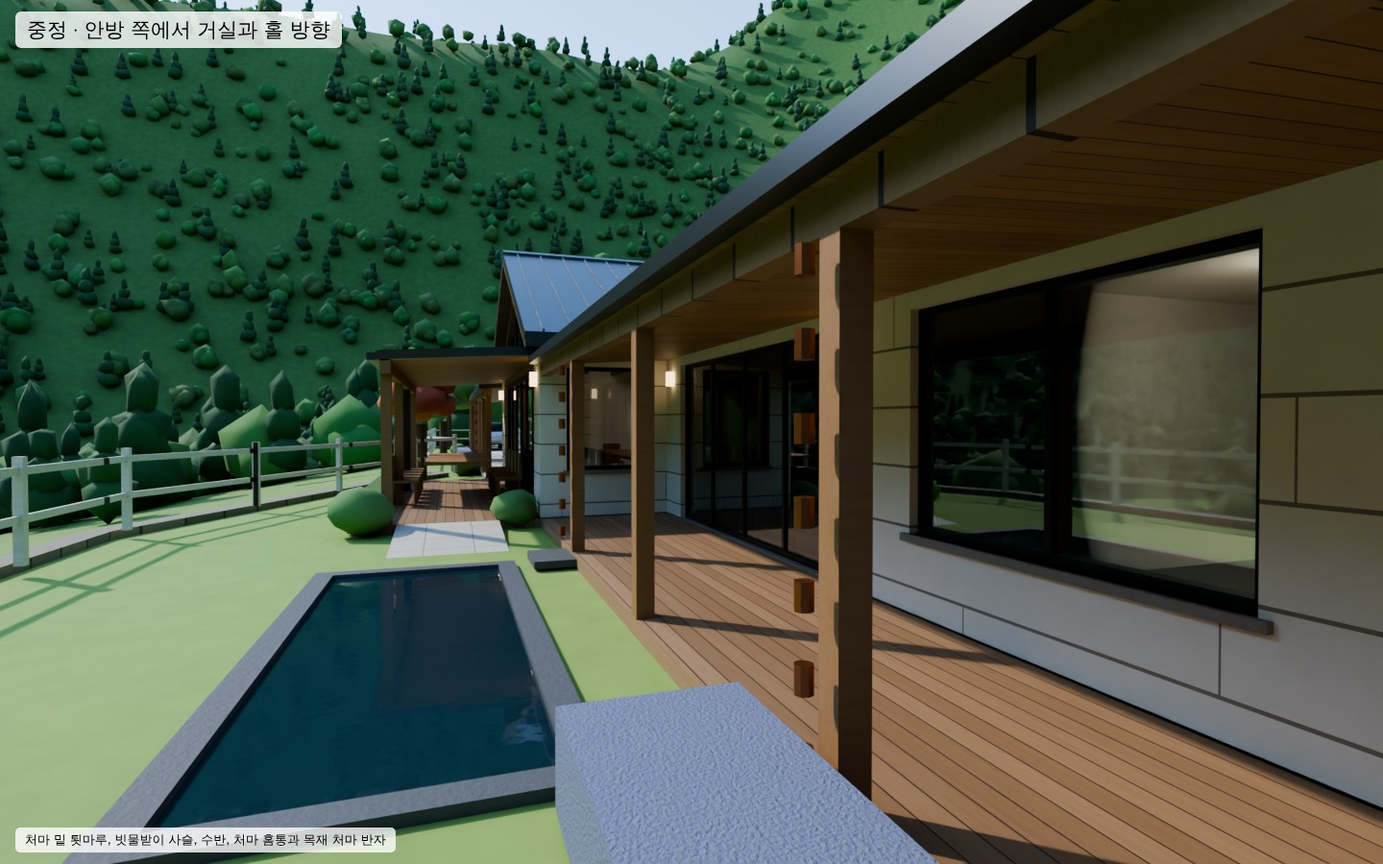
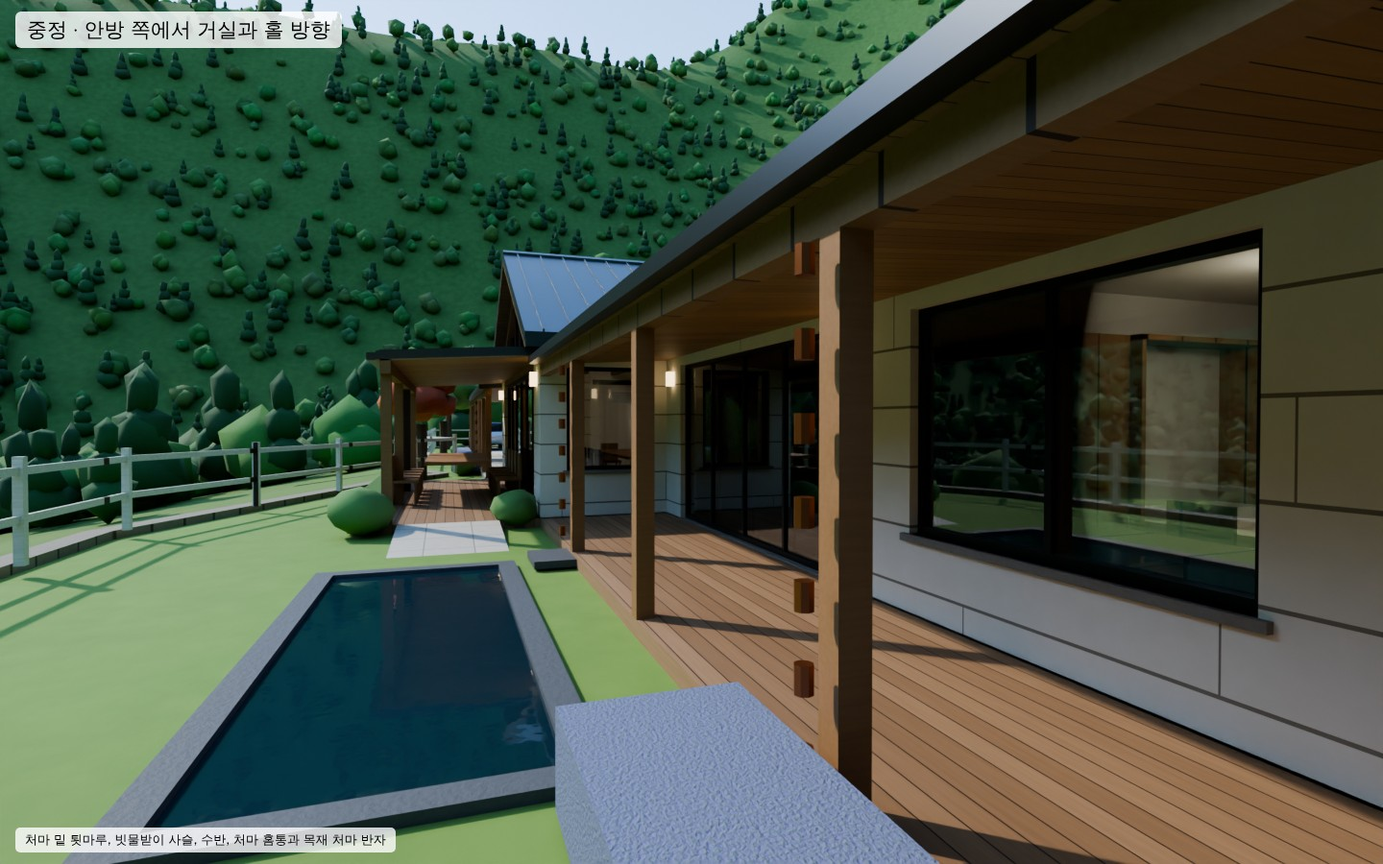
Plan C: open dining-living, attic study with big window, ducted AC, interior views
- Remove the wall between dining and living; dining table for 12, larger living room
- Attic over the garage: large gable window, desk facing the window, audio corner, stair views
- Scullery and utility room interiors (washer/dryer tower)
- Master bedroom: two motion beds, recliners and tea table by the window
- Bedroom 2: built-in desk facing the window and a wall bed
- Ducted air conditioning slots, return grilles and ERV diffusers on ceilings
- Re-render all 21 views and update the floor plan

Claude-Session: https://claude.ai/code/session_01V2KT19EFwobJ5RF8mtFq11

Changed region(s): [[0.7812, 0.3733, 0.9062, 0.6844]]

diff --git a/house-redesign/C안/src/geom2.py b/house-redesign/C안/src/geom2.py
@@ -275,6 +275,7 @@ for d in (7300, 9500, 11700, 13700):
     add('Truss_Tie', 'Roof', 'timber', B(7560, d - 70, 15240, d + 70), EAVE, EAVE + 200)
     for sub, top in tops(B(11330, d - 70, 11470, d + 70)):
         add('Truss_Post', 'Roof', 'timber', sub, EAVE + 200, top)
+add('Open_Beam_HallLiving', 'Roof', 'timber', B(15220, 5850, 15380, 12350), EAVE - 80, EAVE + 220)
 # 굴뚝 (거실 벽난로)
 add('Chimney', '1F', 'stone_wall', B(17650, 5100, 18550, 5600), PAD, 7780)
 add('Chimney_Cap', '1F', 'frame', B(17580, 5030, 18620, 5670), 7780, 7850)
@@ -289,40 +290,69 @@ add('Attic_Floor', '1F', 'fl_private', B(-6750, 5850, -125, 12950).difference(WE
 for k in range(16):
     d1 = 12700 - 250 * k
     add(f'Attic_Stair_{k + 1}', '1F', 'timber', B(-1125, d1 - 250, -175, d1), FL - 20, FL - 20 + (AT_FL - FL + 20) / 17 * (k + 1))
-add('Attic_Rail_W', '1F', 'frame', B(-1165, 8700, -1125, 12700), AT_FL, AT_FL + 1000)
-add('Attic_Rail_S', '1F', 'frame', B(-1165, 12700, -125, 12740), AT_FL, AT_FL + 1000)
+for d_ in range(8700, 12701, 800):                                    # 계단 난간: 기둥 + 손잡이 + 중간대
+    add('Attic_Rail_Post', '1F', 'frame', B(-1165, d_ - 20, -1125, d_ + 20), AT_FL, AT_FL + 1000, minarea=100)
+for u_ in (-765, -365):
+    add('Attic_Rail_Post', '1F', 'frame', B(u_ - 20, 12700, u_ + 20, 12740), AT_FL, AT_FL + 1000, minarea=100)
+for (z0_, z1_) in [(960, 1010), (480, 510)]:
+    add('Attic_Rail_Bar', '1F', 'frame' if z0_ < 900 else 'timber', B(-1170, 8680, -1120, 12740), AT_FL + z0_, AT_FL + z1_, minarea=100)
+    add('Attic_Rail_Bar', '1F', 'frame' if z0_ < 900 else 'timber', B(-1170, 12695, -125, 12745), AT_FL + z0_, AT_FL + z1_, minarea=100)
 GPN = [0.0, -TAN_G, EAVE_G + TAN_G * (-5600)]; GPS = [0.0, TAN_G, EAVE_G + TAN_G * 13200]
 for k, u0 in enumerate((-5600, -3200)):                                # 남측 지붕 천창 2개
     add(f'Skylight_{k + 1}_Frame', 'Roof', 'frame', B(u0, 10700, u0 + 900, 12100), sh(GPS, RT), sh(GPS, RT + 70))
     add(f'Skylight_{k + 1}_Glass', 'Roof', 'glass', B(u0 + 70, 10770, u0 + 830, 12030), sh(GPS, RT + 70), sh(GPS, RT + 90))
 AF = AT_FL + 15
-add('Attic_Desk', 'Furniture', 'timber', B(-6700, 8600, -6000, 10200), AF + 700, AF + 740)
-add('Attic_Sofa', 'Furniture', 'sofa', B(-4600, 8000, -2400, 8900), AF, AF + 420)
-add('Attic_Sofa_Back', 'Furniture', 'sofa', B(-4600, 8000, -2400, 8200), AF + 420, AF + 800)
-add('Attic_Shelf_N', 'Furniture', 'cabinet_wood', B(-6600, 6300, -1500, 6700), AF, AF + 700)
-add('Attic_Shelf_S', 'Furniture', 'cabinet_wood', B(-6600, 12300, -1500, 12700), AF, AF + 700)
-add('Attic_Rug', 'Furniture', 'bed', B(-5200, 9100, -2200, 10900), AF, AF + 12)
+add('Attic_Desk_Top', 'Furniture', 'timber', B(-6450, 8250, -5700, 10550), AF + 720, AF + 760)
+for (u_, d_) in [(-6400, 8300), (-5800, 8300), (-6400, 10450), (-5800, 10450)]:
+    add('Attic_Desk_Leg', 'Furniture', 'frame', B(u_, d_, u_ + 50, d_ + 50), AF, AF + 720, minarea=100)
+add('Attic_Desk_Lamp', 'Furniture', 'lamp', B(-6350, 8400, -6230, 8520), AF + 760, AF + 1100, minarea=100)
+add('Attic_Desk_Books', 'Furniture', 'cabinet_wood', B(-6400, 10000, -6150, 10450), AF + 760, AF + 960, minarea=100)
+add('Attic_Shelf_N', 'Furniture', 'cabinet_wood', B(-5400, 6250, -1500, 6650), AF, AF + 620)
+add('Attic_Shelf_S', 'Furniture', 'cabinet_wood', B(-5400, 12150, -1500, 12550), AF, AF + 620)
+for k_, d_ in enumerate((7150, 11330)):
+    add(f'Attic_Speaker_{k_}', 'Furniture', 'frame', B(-6500, d_, -6150, d_ + 320), AF, AF + 1000)
+add('Attic_AudioRack', 'Furniture', 'cabinet_wood', B(-3300, 6750, -1900, 7250), AF, AF + 560)
+add('Attic_Turntable', 'Furniture', 'frame', B(-2900, 6820, -2400, 7180), AF + 560, AF + 650)
+add('Attic_Amp', 'Furniture', 'metal', B(-3250, 6830, -2950, 7170), AF + 560, AF + 700)
+add('Attic_Lounge_Seat', 'Furniture', 'sofa', B(-3300, 8950, -2500, 9850), AF, AF + 400)
+add('Attic_Lounge_Back', 'Furniture', 'sofa', B(-2650, 8950, -2500, 9850), AF + 400, AF + 900)
+add('Attic_Ottoman', 'Furniture', 'sofa', B(-4250, 9150, -3750, 9650), AF, AF + 360)
+add('Attic_Rug', 'Furniture', 'bed', B(-5300, 8300, -2000, 10500), AF, AF + 12)
 # 외부 벽등
 for (u, d, ox, oy) in [(-7000, 9400, -1, 0), (-7000, 5900, -1, 0), (-7000, 12900, -1, 0), (1150, 12600, 0, -1), (3450, 12600, 0, -1), (-1000 + 700, 13200, 0, -1),
                        (7900, 14600, 0, -1), (14900, 14600, 0, -1), (15650, 12600, 0, -1), (20650, 12600, 0, -1), (3850, 5600, 0, 1)]:
     x, y = u + ox * 45, -d + oy * 45
     add('WallLamp', '1F', 'lamp', box(x - 60, y - 60, x + 60, y + 60) if True else None, FL + 2000, FL + 2220, minarea=300)
 
-# 다락 서측 박공벽에 지름 500mm 원형 창 개구부 (세로 띠로 근사, 유리와 창틀은 렌더러에서 추가)
-RW_C, RW_Z, RW_R = 9400, AT_FL + 1500, 250
+# 다락 서측 박공벽: 지붕선을 따르는 큰 창(창대 450, 가운데 높이 2000) + 꼭대기 원형 스테인드글라스(지름 500)
+RW_C, RW_Z, RW_R = 9400, AT_FL + 2500, 250
+GW0, GW1, GW_S, GW_H, GW_RK = 6600, 12200, AT_FL + 450, AT_FL + 2000, 300
+GA, GB = 5600 + (GW_H - AT_FL + GW_RK) / TAN_G, 13200 - (GW_H - AT_FL + GW_RK) / TAN_G
 _old = list(P); P[:] = []
 for p in _old:
     xs_ = [q[0] for q in p['p']]
     if not (p['g'] == 'Roof' and p['m'] == 'siding_wood' and min(xs_) >= -7001 and max(xs_) <= -6749):
         P.append(p); continue
-    poly = Polygon(p['p'])
-    add(p['n'], p['g'], p['m'], poly.difference(B(-7100, RW_C - RW_R, -6700, RW_C + RW_R)), p['zb'], p['zt'])
+    poly = Polygon(p['p']); pl = p['zt']
+    add(p['n'], p['g'], p['m'], poly.difference(B(-7100, GW0, -6700, GW1)), p['zb'], pl)
+    win = poly.intersection(B(-7100, GW0, -6700, GW1))
+    add(p['n'] + '_Sill', p['g'], p['m'], win, p['zb'], GW_S)
+    for (d0, d1) in ((GW0, GA), (GB, GW1)):
+        add(p['n'] + '_Rake', p['g'], p['m'], win.intersection(B(-7100, d0, -6700, d1)), sh(pl, -GW_RK), pl)
+    mid = win.intersection(B(-7100, GA, -6700, GB))
+    add(p['n'] + '_Transom', p['g'], p['m'], mid.difference(B(-7100, RW_C - RW_R, -6700, RW_C + RW_R)), GW_H, pl)
     for k in range(10):
-        d0 = RW_C - RW_R + 50 * k
-        half = math.sqrt(max(RW_R ** 2 - (d0 + 25 - RW_C) ** 2, 0))
-        cut = poly.intersection(B(-7100, d0, -6700, d0 + 50))
-        add(p['n'] + f'_Under{k}', p['g'], p['m'], cut, p['zb'], RW_Z - half, minarea=300)
-        add(p['n'] + f'_Over{k}', p['g'], p['m'], cut, RW_Z + half, p['zt'], minarea=300)
+        d0 = RW_C - RW_R + 50 * k; half = math.sqrt(max(RW_R ** 2 - (d0 + 25 - RW_C) ** 2, 0)); cut = mid.intersection(B(-7100, d0, -6700, d0 + 50))
+        add(p['n'] + f'_Under{k}', p['g'], p['m'], cut, GW_H, RW_Z - half, minarea=300)
+        add(p['n'] + f'_Over{k}', p['g'], p['m'], cut, RW_Z + half, pl, minarea=300)
+for (d0, d1, zt_) in ((GW0, GA, sh(GPN, -GW_RK)), (GA, 9400, GW_H), (9400, GB, GW_H), (GB, GW1, sh(GPS, -GW_RK))):
+    add('Attic_BigWindow_Glass', 'Roof', 'glass', B(-6900, d0, -6860, d1), GW_S, zt_)
+add('Attic_BigWindow_SillBar', 'Roof', 'frame', B(-6960, GW0, -6800, GW1), GW_S - 50, GW_S + 20, minarea=300)
+add('Attic_BigWindow_HeadBar', 'Roof', 'frame', B(-6960, GA, -6800, GB), GW_H - 20, GW_H + 50, minarea=300)
+for k in range(7):
+    dm = GW0 + (GW1 - GW0) * k / 6
+    ztm = GW_H if GA <= dm <= GB else sh(GPN if dm < 9400 else GPS, -GW_RK)
+    add(f'Attic_BigWindow_Mullion{k}', 'Roof', 'frame', B(-6950, max(dm - 30, GW0), -6810, min(dm + 30, GW1)), GW_S, ztm, minarea=300)
 
 # ================================================================= 대지
 add('Hillside', 'Site', 'hill', HILL, -14000, NAT)
@@ -402,33 +432,118 @@ fur('Kitchen_Island', B(9200, 7600, 12600, 8750), F, FL + 900, 'cabinet_wood'); 
 fur('Scullery_Counter_N', B(4600, 5850, 7380, 6450), F, FL + 900, 'cabinet'); fur('Scullery_Counter_N_Top', B(4600, 5850, 7380, 6470), FL + 900, FL + 940, 'counter')
 fur('Scullery_Counter_S', B(4300, 8360, 7380, 8960), F, FL + 900, 'cabinet'); fur('Scullery_Counter_S_Top', B(4300, 8340, 7380, 8960), FL + 900, FL + 940, 'counter')
 fur('Scullery_Fridges', B(3060, 8300, 4300, 8960), F, FL + 2000, 'metal')
-fur('Laundry', B(300, 5850, 1750, 6450), F, FL + 900, 'porcelain')
+# 다용도실: 타워형 세탁기·건조기, 개수대, 키 큰 수납장, 벤치
+fur('Util_Tower_Washer', B(200, 5870, 820, 6520), F, FL + 870, 'porcelain'); fur('Util_Tower_Band', B(200, 5870, 820, 6525), FL + 870, FL + 1010, 'metal')
+fur('Util_Tower_Dryer', B(200, 5870, 820, 6520), FL + 1010, FL + 1890, 'porcelain')
+fur('Util_Sink_Cabinet', B(900, 5850, 2250, 6450), F, FL + 860, 'cabinet'); fur('Util_Sink_Top', B(900, 5850, 2250, 6470), FL + 860, FL + 900, 'counter')
+fur('Util_Sink_Basin', B(1150, 5950, 1750, 6350), FL + 900, FL + 915, 'metal')
+fur('Util_Tall_Storage', B(2330, 5850, 2900, 6420), F, FL + 2150, 'cabinet_wood')
+fur('Util_Bench', B(200, 8450, 1150, 8900), F, FL + 450, 'timber'); fur('Util_Hooks_Rail', B(200, 8880, 1150, 8950), FL + 1600, FL + 1680, 'timber')
+# 보조주방: 개수대, 쿡탑, 상부장, 선반
+fur('Scullery_Sink_Basin', B(5100, 5950, 5900, 6350), FL + 940, FL + 955, 'metal'); fur('Scullery_Cooktop', B(6300, 5950, 7000, 6380), FL + 940, FL + 955, 'frame')
+fur('Scullery_Upper_S', B(4300, 8610, 7380, 8960), FL + 1500, FL + 2250, 'cabinet'); fur('Scullery_Hood', B(6250, 5850, 7050, 6250), FL + 1650, FL + 1800, 'metal')
+fur('Scullery_Shelf_W', B(3060, 5900, 3300, 6700), FL + 1300, FL + 1340, 'timber'); fur('Scullery_Shelf_W2', B(3060, 5900, 3300, 6700), FL + 1650, FL + 1690, 'timber')
 fur('Shoe_Cabinet', B(125, 9080, 560, 12350), F, FL + 2250, 'cabinet_wood')
 fur('Foyer_Bench', B(3350, 11850, 4290, 12350), F, FL + 450, 'timber')
 fur('Powder_WC', B(6850, 10900, 7440, 11350), F, FL + 430, 'porcelain'); fur('Powder_Sink', B(4500, 11800, 5400, 12350), FL + 700, FL + 850, 'porcelain')
-fur('Dining_Table', B(9200, 11425, 13600, 12575), FL + 700, FL + 760, 'timber')
-for (u, d) in [(9500, 11600), (13300, 11600), (9500, 12400), (13300, 12400)]:
+fur('Dining_Table', B(8950, 11425, 12650, 12575), FL + 700, FL + 760, 'timber')          # 12인: 긴 변 5석씩 + 양 끝
+for (u, d) in [(9250, 11600), (12350, 11600), (9250, 12400), (12350, 12400)]:
     fur('Dining_Table_Leg', B(u - 50, d - 50, u + 50, d + 50), F, FL + 700, 'timber')
 fur('Sofa', B(16300, 9300, 19300, 10250), F, FL + 430, 'sofa'); fur('Sofa_Back', B(16300, 10050, 19300, 10250), FL + 430, FL + 850, 'sofa')
 fur('Sofa_Side', B(19300, 7500, 20200, 10250), F, FL + 430, 'sofa'); fur('Sofa_Side_Back', B(20000, 7500, 20200, 10250), FL + 430, FL + 850, 'sofa')
 fur('Coffee_Table', B(17000, 7800, 18400, 8600), FL + 300, FL + 380, 'timber')
+fur('Living_Rug', B(14900, 7100, 20300, 10400), F, F + 12, 'bed')
+for k_, d_ in enumerate((7350, 8950)):                                     # 넓어진 서쪽에 안락의자 한 쌍
+    fur(f'Living_Armchair_{k_}_Seat', B(14950, d_, 15800, d_ + 850), F, FL + 420, 'sofa'); fur(f'Living_Armchair_{k_}_Back', B(14950, d_, 15130, d_ + 850), FL + 420, FL + 860, 'sofa')
+fur('Living_SideTable', B(15150, 8320, 15550, 8830), FL + 480, FL + 520, 'timber')
 fur('Fireplace', B(17500, 5850, 18700, 6300), F, FL + 2700, 'stone_wall'); fur('Fireplace_Glass', B(17750, 6290, 18450, 6320), FL + 350, FL + 1050, 'frame')
-fur('Bed2', B(21100, 9700, 22700, 11800), F, FL + 500, 'bed'); fur('Desk2', B(23400, 7400, 24300, 8900), FL + 700, FL + 740, 'timber')
+# 침실2: 창밖을 향한 붙박이 책상 + 서쪽 벽의 벽장침대(펼친 모습)
+fur('Bed2_Desk_Top', B(21250, 11780, 24050, 12350), FL + 720, FL + 760, 'timber')
+for u_ in (21250, 22630, 24010):
+    fur('Bed2_Desk_Panel', B(u_, 11800, u_ + 40, 12350), F, FL + 720, 'cabinet_wood')
+fur('Bed2_Desk_Drawers', B(23400, 11820, 24010, 12350), FL + 250, FL + 720, 'cabinet_wood')
+fur('Bed2_Desk_Lamp', B(21400, 12150, 21500, 12250), FL + 760, FL + 1100, 'lamp')
+fur('Bed2_Wallbed_Cabinet_Side1', B(20860, 8250, 21320, 8300), F, FL + 2250, 'cabinet_wood'); fur('Bed2_Wallbed_Cabinet_Side2', B(20860, 9900, 21320, 9950), F, FL + 2250, 'cabinet_wood')
+fur('Bed2_Wallbed_Cabinet_Top', B(20860, 8250, 21320, 9950), FL + 2200, FL + 2250, 'cabinet_wood'); fur('Bed2_Wallbed_Cabinet_Back', B(20860, 8300, 20900, 9900), F, FL + 2200, 'cabinet')
+fur('Bed2_Wallbed_Platform', B(20950, 8320, 23050, 9880), FL + 280, FL + 330, 'cabinet_wood'); fur('Bed2_Wallbed_Mattress', B(21000, 8350, 23000, 9850), FL + 330, FL + 530, 'bed')
+fur('Bed2_Wallbed_Pillow', B(21050, 8500, 21450, 9700), FL + 530, FL + 640, 'porcelain'); fur('Bed2_Wallbed_Throw', B(22300, 8340, 22800, 9860), FL + 530, FL + 545, 'furniture')
+for d_ in (8340, 9810):
+    fur('Bed2_Wallbed_Leg', B(22980, d_, 23040, d_ + 50), F, FL + 280, 'frame')
+fur('Bed2_Shelf_N', B(20860, 7330, 21200, 8250), F, FL + 2250, 'cabinet_wood'); fur('Bed2_Shelf_S', B(20860, 9950, 21200, 11200), F, FL + 2250, 'cabinet_wood')
 fur('Vanity2', B(24520, 7270, 25300, 7830), F, FL + 850, 'cabinet'); fur('WC2', B(25850, 9250, 26440, 9700), F, FL + 430, 'porcelain')
 fur('Closet_Dress', B(28400, 7400, 31750, 7940), F, FL + 2250, 'cabinet_wood'); fur('Closet_Pass', B(26560, 8060, 27160, 11540), F, FL + 2250, 'cabinet_wood')
 fur('MBath_Vanity', B(28900, 8060, 30700, 8620), F, FL + 850, 'cabinet'); fur('MBath_Tub', B(30950, 8300, 31750, 10000), F, FL + 560, 'porcelain')
 fur('MBath_WC', B(31150, 10850, 31750, 11400), F, FL + 430, 'porcelain'); fur('MBath_ShowerGlass', B(28800, 10200, 30300, 10240), F, FL + 2100, 'glass')
-fur('Bed_Master', B(28150, 11700, 30250, 13900), F, FL + 520, 'bed'); fur('Bed_Master_Head', B(28150, 11660, 30250, 11760), FL + 520, FL + 1150, 'timber')
+fur('Master_Headwall', B(27950, 11660, 30950, 11720), F, FL + 1150, 'cabinet')
+for k_, (u0_, rise_) in enumerate(((28300, 380), (29420, 140))):            # 모션베드 2개를 붙여서 (머리판 각도는 따로)
+    u1_ = u0_ + 1100
+    fur(f'MotionBed_{k_}_Base', B(u0_, 11760, u1_, 13810), F, FL + 300, 'cabinet')
+    fur(f'MotionBed_{k_}_MattFoot', B(u0_ + 30, 12650, u1_ - 30, 13790), FL + 300, FL + 550, 'bed')
+    sl_ = rise_ / 870.0                                                      # 머리 쪽(북)으로 갈수록 올라감: z = sl*(d0 - d) = sl*y + sl*d0
+    pb_ = [0.0, sl_, FL + 300 + sl_ * 12650]; pt_ = [0.0, sl_, FL + 550 + sl_ * 12650]
+    add(f'MotionBed_{k_}_MattHead', 'Furniture', 'bed', B(u0_ + 30, 11780, u1_ - 30, 12650), pb_, pt_)
+    add(f'MotionBed_{k_}_Wedge', 'Furniture', 'cabinet', B(u0_ + 60, 11780, u1_ - 60, 12650), FL + 300, pb_)
+    add(f'MotionBed_{k_}_Pillow', 'Furniture', 'porcelain', B(u0_ + 220, 11850, u1_ - 220, 12250), pt_, [0.0, sl_, pt_[2] + 120])
+    add(f'MotionBed_{k_}_Cushion', 'Furniture', 'fern', B(u0_ + 300, 12280, u1_ - 300, 12560), pt_, [0.0, sl_, pt_[2] + 110])
+    fur(f'MotionBed_{k_}_Throw', B(u0_ + 20, 13150, u1_ - 20, 13600), FL + 550, FL + 565, 'furniture')
+    add(f'Master_Sconce_{k_}', 'Furniture', 'lamp', B(u0_ + 500, 11720, u0_ + 600, 11790), FL + 1250, FL + 1450, minarea=100)
+fur('Master_Nightstand_W', B(27950, 11720, 28280, 12200), F, FL + 480, 'cabinet'); fur('Master_Nightstand_E', B(30540, 11720, 30990, 12200), F, FL + 480, 'cabinet')
+for k_, u0_ in enumerate((27750, 30000)):                                  # 남쪽 창가 리클라이너 2개 (창을 향함)
+    fur(f'Recliner_{k_}_Seat', B(u0_, 15250, u0_ + 800, 16050), F, FL + 430, 'sofa')
+    add(f'Recliner_{k_}_Back', 'Furniture', 'sofa', B(u0_ + 60, 14850, u0_ + 740, 15300), FL + 250, [0.0, 1.45, FL + 430 + 1.45 * 15300])
+    fur(f'Recliner_{k_}_ArmL', B(u0_, 15150, u0_ + 110, 16050), FL + 430, FL + 600, 'sofa'); fur(f'Recliner_{k_}_ArmR', B(u0_ + 690, 15150, u0_ + 800, 16050), FL + 430, FL + 600, 'sofa')
+    fur(f'Recliner_{k_}_Foot', B(u0_ + 80, 16080, u0_ + 720, 16520), FL + 240, FL + 400, 'sofa')
+fur('TeaTable_Top', Point(29275, -15700).buffer(300, resolution=4), FL + 500, FL + 530, 'timber'); fur('TeaTable_Leg', Point(29275, -15700).buffer(45, resolution=3), F, FL + 500, 'frame')
+fur('Master_Rug', B(27600, 14700, 31000, 16600), F, F + 12, 'bed')
 for k, d0 in enumerate((6350, 10500)):
     fur(f'Car_{k + 1}_Body', B(-6300, d0, -1500, d0 + 1900), FL + 250, FL + 950, 'car', '1F'); fur(f'Car_{k + 1}_Cabin', B(-5300, d0 + 90, -2500, d0 + 1810), FL + 950, FL + 1600, 'car_glass', '1F')
 for k, d0 in enumerate((10400, 12900)):
     fur(f'GuestCar_{k + 1}_Body', B(-17200, d0, -12400, d0 + 1900), PAD + 280, PAD + 980, 'car2' if k else 'car', 'Site'); fur(f'GuestCar_{k + 1}_Cabin', B(-16200, d0 + 90, -13400, d0 + 1810), PAD + 980, PAD + 1630, 'car_glass', 'Site')
 fur('Outdoor_Table', B(9600, 15200, 13200, 16300), FL + 690, FL + 750, 'timber', 'Site')
+# ------------------------------------------------------------------ 천장 설비 (시스템 에어컨 · 전열교환기)
+def cassette(nm, u, d):                                                     # 평천장: 4방향 카세트 840각
+    fur(nm + '_Panel', B(u - 420, d - 420, u + 420, d + 420), EAVE - 32, EAVE, 'porcelain')
+    fur(nm + '_Grille', B(u - 250, d - 250, u + 250, d + 250), EAVE - 37, EAVE - 32, 'metal')
+    for (a0, b0, a1, b1) in [(-330, -390, 330, -330), (-330, 330, 330, 390), (-390, -330, -330, 330), (330, -330, 390, 330)]:
+        fur(nm + '_Slot', B(u + a0, d + b0, u + a1, d + b1), EAVE - 37, EAVE - 32, 'frame')
+def erv_flat(nm, u, d):                                                     # 평천장: 전열교환기 급·배기구 (지름 220)
+    fur(nm + '_Ring', Point(u, -d).buffer(110, resolution=4), EAVE - 22, EAVE, 'porcelain'); fur(nm + '_Core', Point(u, -d).buffer(60, resolution=4), EAVE - 30, EAVE - 22, 'metal')
+def erv_slope(nm, u, d):                                                    # 박공 천장: 경사면을 따라 붙는 급·배기구
+    for sub, top in tops(Point(u, -d).buffer(115, resolution=4)):
+        add(nm + '_Ring', 'Roof', 'porcelain', sub, sh(top, -45), sh(top, -20), minarea=100)
+def slot(nm, geom, z0, z1, grp='Furniture'):                                # 벽 상부 선형 디퓨저 (덕트형 에어컨 토출구)
+    add(nm + '_Frame', grp, 'porcelain', geom, z0 - 25, z1 + 25, minarea=100); add(nm + '_Slot', grp, 'frame', geom.buffer(8, join_style=2), z0, z1, minarea=100)
+def duct_flat(nm, u, d, along='u', L=1300):                                # 평천장: 덕트형 에어컨의 선형 토출구 + 흡입 그릴
+    hx, hy = (L / 2, 55) if along == 'u' else (55, L / 2)
+    fur(nm + '_SupplyFrame', B(u - hx - 25, d - hy - 25, u + hx + 25, d + hy + 25), EAVE - 14, EAVE, 'porcelain')
+    fur(nm + '_SupplySlot', B(u - hx, d - hy, u + hx, d + hy), EAVE - 18, EAVE - 14, 'frame')
+    ox, oy = (0, 520) if along == 'u' else (520, 0)                          # 흡입 그릴은 토출구 옆에
+    rx, ry = (350, 175) if along == 'u' else (175, 350)
+    fur(nm + '_ReturnFrame', B(u + ox - rx - 25, d + oy - ry - 25, u + ox + rx + 25, d + oy + ry + 25), EAVE - 14, EAVE, 'porcelain')
+    for k_ in range(7):
+        t_ = -ry + 2 * ry * (k_ + 0.5) / 7 if along == 'u' else -rx + 2 * rx * (k_ + 0.5) / 7
+        fur(nm + '_ReturnLouver', B(u + ox - rx, d + oy + t_ - 14, u + ox + rx, d + oy + t_ + 14) if along == 'u' else B(u + ox + t_ - 14, d + oy - ry, u + ox + t_ + 14, d + oy + ry), EAVE - 19, EAVE - 14, 'metal')
+for nm, u, d, al in [('AC_Master', 29150, 14700, 'u'), ('AC_Bed2', 22630, 9000, 'u'), ('AC_Foyer', 2200, 10500, 'u'), ('AC_Scullery', 5200, 7200, 'u'), ('AC_Util', 1500, 6900, 'u')]: duct_flat(nm, u, d, al)
+for nm, u, d in [('ERV_Master_S', 27500, 13000), ('ERV_Master_R', 31000, 16200), ('ERV_Bed2', 21500, 11500), ('ERV_Dress', 29000, 6900), ('ERV_MBath', 30200, 9800), ('ERV_Bath2', 25480, 8500),
+                 ('ERV_Corridor', 23600, 6500), ('ERV_Gallery', 5900, 9770), ('ERV_Util', 2300, 7200), ('ERV_Scullery', 3700, 7000), ('ERV_Powder', 5900, 11500), ('ERV_DressPass', 27600, 9800)]: erv_flat(nm, u, d)
+fur('ERV_Unit_Hatch', B(1100, 7700, 1700, 8300), EAVE - 12, EAVE, 'porcelain'); fur('ERV_Unit_Hatch_Frame', B(1080, 7680, 1720, 8320).difference(B(1100, 7700, 1700, 8300)), EAVE - 16, EAVE, 'metal')
+for nm, u, d in [('ERV_Hall_1', 9300, 10800), ('ERV_Hall_2', 13000, 7900), ('ERV_Hall_3', 12800, 13400), ('ERV_Living_1', 16500, 7600), ('ERV_Living_2', 19200, 11200), ('ERV_Attic', -3600, 8300)]: erv_slope(nm, u, d)
+def grille_wall(nm, geom, z0, z1, horiz=True):                             # 벽 흡입 그릴 (루버)
+    add(nm + '_Frame', 'Furniture', 'porcelain', geom, z0 - 25, z1 + 25, minarea=100)
+    n_ = 6
+    for k_ in range(n_):
+        za = z0 + (z1 - z0) * k_ / n_
+        add(nm + '_Louver', 'Furniture', 'metal', geom.buffer(8, join_style=2), za + 6, za + (z1 - z0) / n_ - 6, minarea=100)
+slot('AC_Hall_W', B(7560, 10650, 7585, 12250), FL + 2440, FL + 2570); grille_wall('ACR_Hall_W', B(7560, 10900, 7580, 11800), FL + 1950, FL + 2250)
+slot('AC_Hall_N1', B(8700, 5850, 10300, 5875), FL + 2440, FL + 2570); slot('AC_Hall_N2', B(11300, 5850, 12900, 5875), FL + 2440, FL + 2570)
+slot('AC_Living_E1', B(20715, 7600, 20740, 9200), FL + 2440, FL + 2570); slot('AC_Living_E2', B(20715, 10000, 20740, 11600), FL + 2440, FL + 2570)
+grille_wall('ACR_Living_E', B(20720, 9350, 20740, 9850), FL + 2150, FL + 2550)
+slot('AC_Attic_E', B(-275, 6300, -250, 7900), AT_FL + 1240, AT_FL + 1370)
 CH = []
-for i in range(6):
-    x = 9200 + 4400 / 6 * (i + 0.5)
+for i in range(5):
+    x = 8950 + 3700 / 5 * (i + 0.5)
     CH += [[x, -11095, 0, FL + 15, 'Furniture'], [x, -12905, 180, FL + 15, 'Furniture']]
-CH += [[8870, -12000, 90, FL + 15, 'Furniture'], [13930, -12000, 270, FL + 15, 'Furniture']]
+CH += [[8620, -12000, 90, FL + 15, 'Furniture'], [12980, -12000, 270, FL + 15, 'Furniture']]
 for i in range(5):
     x = 9600 + 3600 / 5 * (i + 0.5)
     CH += [[x, -14870, 0, FL - 15, 'Site'], [x, -16630, 180, FL - 15, 'Site']]
@@ -437,7 +552,9 @@ for k in range(4):
 
 FENCE = [{'p': [(-17350, -8200), (-17350, -16650), (2450, -16650), (4680, -15740), (7000, -17140), (14450, -20050), (34350, -20050), (34350, -11400)], 'z': PAD + 120}]
 SPEC = {'roofs': ROOFSPEC, 'frames': [[round(v, 1) for v in f] for f in FRAMES], 'fences': FENCE, 'chairs': CH}
-LABELS = [{'t': '다락 (개인 공간)', 'x': -3600, 'y': -9400, 'z': AT_FL + 100, 'attic': 1}] + [{'t': k, 'x': round(room_poly(k).centroid.x), 'y': round(room_poly(k).centroid.y), 'z': FL + 100} for k in ROOMS]
+CH.append([-5250, -9400, 270, AT_FL + 15, 'Furniture'])
+CH.append([22630, -11300, 0, FL + 15, 'Furniture'])
+LABELS = [{'t': '다락 (서재·음악감상실)', 'x': -3600, 'y': -9400, 'z': AT_FL + 100, 'attic': 1}] + [{'t': k, 'x': round(room_poly(k).centroid.x), 'y': round(room_poly(k).centroid.y), 'z': FL + 100} for k in ROOMS]
 
 if __name__ == '__main__':
     core = len(P)

diff --git a/house-redesign/C안/src/plan2.py b/house-redesign/C안/src/plan2.py
@@ -69,6 +69,7 @@ def plan():
         if p['g'] == 'Furniture' and not p['n'].endswith('_Top') and 'Leg' not in p['n'] and not p['n'].startswith('Attic'): s.append(sp(Polygon(p['p']), fill='none', stroke='#8b8b8b', stroke_width=18))
         if 'Car' in p['n'] and 'Body' in p['n']: s.append(sp(Polygon(p['p']).buffer(-60).buffer(60), fill='#cfd3d6' if 'Guest' in p['n'] else '#bfc4c8', stroke='#777', stroke_width=18))
         if p['n'] == 'Outdoor_Table': s.append(sp(Polygon(p['p']), fill='#e8d3ae', stroke='#8b8b8b', stroke_width=18))
+        if p['n'] in ('Bed2_Desk_Top', 'Bed2_Wallbed_Mattress'): s.append(sp(Polygon(p['p']), fill='#efe3cc' if 'Desk' in p['n'] else '#f4f1ea', stroke='#8b6b45', stroke_width=20))
         if p['n'] == 'Dining_Table': s.append(sp(Polygon(p['p']), fill='#e8d3ae', stroke='#6b5a3a', stroke_width=25))
     for c in G.CH: s.append(f'<rect x="{c[0] - 210:.0f}" y="{-c[1] - 210:.0f}" width="420" height="420" rx="90" fill="#fff" stroke="#8b6b45" stroke-width="18"/>')
     s.append(sp(B(-1125, 8700, -125, 12700), fill='#f3eee3', stroke='#777', stroke_width=14))
@@ -85,9 +86,10 @@ def plan():
         s.append(f'<circle cx="{u}" cy="{d}" r="750" fill="none" stroke="#2e9e6a" stroke-width="16" stroke-dasharray="70,70"/>')
     for k, v in ROOMS.items():
         p = room_poly(k); c = p.centroid; a = p.area / 1e6; small = a < 8
-        dy = {'주방': 1300, '다이닝 (14인)': -1500, '거실': -1700, '침실2 (게스트·서재)': 900, '안방': -1400, '차고 (2대)': 600}.get(k, 0)
+        dy = {'주방': 1300, '다이닝 (12인)': -1500, '거실': -1700, '침실2 (게스트·서재)': -850, '안방': -1400, '차고 (2대)': 600}.get(k, 0)
         s.append(tx(c.x, c.y + dy + 60, k, 250 if small else 330, weight=700))
         s.append(tx(c.x, c.y + dy - (300 if small else 380), f'{a:.1f}㎡ · {a / 3.3058:.1f}평', 200 if small else 240, fill='#555'))
+    s.append(tx(22000, -9180, '벽장침대', 190, fill='#555')); s.append(tx(22300, -12150, '붙박이 책상', 170, fill='#555'))
     s.append(tx(-12300, -9000, '진입 마당', 380, fill='#666', weight=700)); s.append(tx(-12300, -9550, '도로와 같은 높이 · 손님 주차 2~4대', 230, fill='#777'))
     s.append(tx(-3500, -14150, '처마 밑 보행로 (경사로 1:15)', 220, fill='#665')); s.append(tx(11400, -16000, '포치 · 야외 12인 식탁', 230, fill='#654'))
     s.append(tx(20500, -13700, '툇마루', 240, fill='#654')); s.append(tx(20500, -16300, '중정 수반', 230, fill='#456'))
@@ -115,12 +117,12 @@ def plan():
     s.append(R(-6750, 7980, -125, 10820, fill='#c4d9ec', stroke='#2e6fa8', stroke_width=14, stroke_dasharray='90,70'))
     s.append(R(-1125, 8700, -125, 12700, fill='#f3eee3', stroke='#777', stroke_width=14))
     for k in range(16): s.append(R(-1125, 12700 - 250 * k - 250, -125, 12700 - 250 * k, fill='none', stroke='#999', stroke_width=8))
-    s.append(R(-7000, 9150, -6750, 9650, fill='#c8642a'))
-    s.append(tx(ox + 1250, oy + 3730, '원형 창 Ø500', 170, fill='#a04a18'))
+    s.append(R(-7000, 6600, -6750, 12200, fill='#2f8fd8'))
+    s.append(tx(ox - 330, oy + 3800, '큰 박공 창 (폭 5.6m)', 170, fill='#2f6fa0', rot=-90))
     for u0 in (-5600, -3200): s.append(R(u0, 10700, u0 + 900, 12100, fill='#bfe0f5', stroke='#2f8fd8', stroke_width=20))
-    for (a, b_, c, d_) in [(-6700, 8600, -6000, 10200), (-4600, 8000, -2400, 8900), (-6600, 6300, -1500, 6700), (-6600, 12300, -1500, 12700)]:
+    for (a, b_, c, d_) in [(-6450, 8250, -5700, 10550), (-5470, 9180, -5030, 9620), (-5400, 6250, -1500, 6650), (-5400, 12150, -1500, 12550), (-6500, 7150, -6150, 7470), (-6500, 11330, -6150, 11650), (-3300, 6750, -1900, 7250), (-3300, 8950, -2500, 9850), (-4250, 9150, -3750, 9650)]:
         s.append(R(a, b_, c, d_, fill='none', stroke='#8b8b8b', stroke_width=14))
-    s.append(tx(ox + 3500, oy + 8650, '다락 평면 (차고 위, 개인 공간)', 300, weight=700))
+    s.append(tx(ox + 3500, oy + 8650, '다락 평면 (차고 위, 서재·음악감상실)', 300, weight=700))
     s.append(tx(ox + 2900, oy + 4000, '서서 쓰는 구간', 210, fill='#2e6fa8')); s.append(tx(ox + 2900, oy + 3650, '(천장 2.0m 이상, 폭 2.8m)', 180, fill='#2e6fa8'))
     s.append(tx(ox + 6400, oy + 2500, '계단', 190, fill='#555')); s.append(tx(ox + 1850, oy + 1800, '천창', 170, fill='#2f6fa0')); s.append(tx(ox + 4250, oy + 1800, '천창', 170, fill='#2f6fa0'))
     s.append(tx(ox + 3500, oy - 250, '바닥 43㎡ · 천장 평균 약 1.6m (다락 기준 1.8m 이하)', 190, fill='#555'))

diff --git a/house-redesign/C안/src/blender/scene.py b/house-redesign/C안/src/blender/scene.py
@@ -326,11 +326,19 @@ def stained_glass():
     MATS['stained_em'] = em
     return m
 SGM = stained_glass()
-bpy.ops.mesh.primitive_cylinder_add(radius=0.25, depth=0.016, vertices=72, location=(-6.9, -9.4, 5.95 + 1.5), rotation=(0, math.pi / 2, 0))
+bpy.ops.mesh.primitive_cylinder_add(radius=0.25, depth=0.016, vertices=72, location=(-6.9, -9.4, 5.95 + 2.5), rotation=(0, math.pi / 2, 0))
 bpy.context.object.data.materials.append(SGM); GROUP_OBJS.setdefault('Roof', []).append(bpy.context.object)
 for xr in (-7.005, -6.745):
-    bpy.ops.mesh.primitive_torus_add(major_radius=0.265, minor_radius=0.03, major_segments=72, minor_segments=12, location=(xr, -9.4, 5.95 + 1.5), rotation=(0, math.pi / 2, 0))
+    bpy.ops.mesh.primitive_torus_add(major_radius=0.265, minor_radius=0.03, major_segments=72, minor_segments=12, location=(xr, -9.4, 5.95 + 2.5), rotation=(0, math.pi / 2, 0))
     o = bpy.context.object; o.data.materials.append(MATS['frame']); GROUP_OBJS['Roof'].append(o)
+    for p_ in o.data.polygons: p_.use_smooth = True
+
+# 타워형 세탁기·건조기의 둥근 문 (다용도실)
+for zc in (3.0 + 0.47, 3.0 + 1.47):
+    bpy.ops.mesh.primitive_cylinder_add(radius=0.2, depth=0.03, vertices=48, location=(0.51, -6.53, zc), rotation=(math.pi / 2, 0, 0))
+    bpy.context.object.data.materials.append(MATS['car_glass']); GROUP_OBJS.setdefault('Furniture', []).append(bpy.context.object)
+    bpy.ops.mesh.primitive_torus_add(major_radius=0.215, minor_radius=0.025, major_segments=48, minor_segments=10, location=(0.51, -6.535, zc), rotation=(math.pi / 2, 0, 0))
+    o = bpy.context.object; o.data.materials.append(MATS['metal']); GROUP_OBJS['Furniture'].append(o)
     for p_ in o.data.polygons: p_.use_smooth = True
 
 # ------------------------------------------------------------------ 하늘·해·실내등
@@ -346,7 +354,7 @@ def set_sun(az_deg, el_deg, strength, sky_strength, color=(1.0, 0.94, 0.86)):
     sky.sun_elevation = max(el, math.radians(-3)); sky.sun_rotation = az; sky.sun_disc = False; bg.inputs[1].default_value = sky_strength
 LIGHTS = []
 for (u, d, zz, pw) in [(11400, 12000, 5.9, 1.0), (11400, 8200, 5.9, 0.8), (18000, 9000, 5.9, 1.0), (2200, 10700, 5.4, 0.5), (5300, 7400, 5.4, 0.5), (22600, 9800, 5.4, 0.5),
-                       (29100, 14200, 5.4, 0.7), (30200, 9800, 5.4, 0.4), (-3600, 9400, 7.7, 0.45), (-3400, 9400, 5.4, 0.5), (23600, 6500, 5.4, 0.3), (1500, 7400, 5.4, 0.3)]:
+                       (29100, 14200, 5.4, 0.7), (30200, 9800, 5.4, 0.4), (-3600, 9400, 7.7, 0.45), (-3400, 9400, 5.4, 0.5), (23600, 6500, 5.4, 0.3), (1500, 7400, 5.4, 0.45)]:
     L = bpy.data.objects.new('L', bpy.data.lights.new('L', 'POINT')); sc.collection.objects.link(L); L.location = (u * S, -d * S, zz)
     L.data.color = (1.0, 0.80, 0.58); L.data.shadow_soft_size = 0.12; LIGHTS.append((L, pw))
 

diff --git a/house-redesign/C안/src/design2.py b/house-redesign/C안/src/design2.py
@@ -42,9 +42,9 @@ ROOMS = {
     '현관':                  (125, 9080, 4350, 12350, 'circ'),
     '갤러리':                (4350, 9080, 7440, 10460, 'circ'),
     '손님 화장실':           (4470, 10580, 7440, 12350, 'service'),
-    '주방':                  (7560, 5850, 15240, 9700, 'public'),
-    '다이닝 (14인)':         (7560, 9700, 15240, 14350, 'public'),
-    '거실':                  (15360, 5850, 20740, 12350, 'public'),
+    '주방':                  (7560, 5850, 14100, 9700, 'public'),
+    '다이닝 (12인)':         (7560, 9700, 14100, 14350, 'public'),
+    '거실':                  (14100, 5850, 20740, 12350, 'public'),
     '복도':                  (20860, 5850, 26440, 7150, 'circ'),
     '침실2 (게스트·서재)':   (20860, 7270, 24400, 12350, 'private'),
     '욕실2':                 (24520, 7270, 26440, 9840, 'service'),
@@ -56,6 +56,7 @@ ROOMS = {
 }
 def room_poly(k):
     u0, d0, u1, d1, _ = ROOMS[k]
+    if k.startswith('다이닝'): return B(u0, d0, u1, d1).union(B(14100, 12350, 15240, 14350))      # 남쪽 돌출부는 다이닝에 포함
     return B(u0, d0, u1, d1)
 
 # ---- 내벽 (u0,d0,u1,d1,두께)  /  문 (u,d,폭)
@@ -66,7 +67,6 @@ WALLS_INT = [
     (7500, 5600, 7500, 12600, INT),    # W4 링크|홀
     (4410, 10520, 7500, 10520, INT),   # W5 화장실 북벽
     (4410, 10520, 4410, 12600, INT),   # W6 화장실 서벽
-    (15300, 5600, 15300, 12600, INT),  # W7 홀|거실
     (20800, 5600, 20800, 12600, INT),  # W8 거실|침실동
     (20800, 7210, 26500, 7210, INT),   # W9 복도 남벽
     (24460, 7210, 24460, 12600, INT),  # W10
@@ -76,7 +76,7 @@ WALLS_INT = [
     (28740, 8000, 28740, 11600, INT),  # W14
     (26500, 11600, 32000, 11600, INT), # W15
 ]
-VAULT_WALLS = [3, 6, 7]                # 박공 천장 공간(홀·거실)을 나누는 벽
+VAULT_WALLS = [3, 6]                # 박공 천장 공간(홀·거실)을 나누는 벽
 DOORS_INT = [
     (0, 7200, 1000),       # 차고 -> 다용도실
     (3000, 7300, 1000),    # 다용도실 -> 보조주방
@@ -84,7 +84,6 @@ DOORS_INT = [
     (7500, 7900, 1000),    # 보조주방 -> 주방
     (7500, 9770, 1380),    # 갤러리 -> 홀 (개방)
     (6200, 10520, 1000),   # 손님 화장실
-    (15300, 9450, 4300),   # 홀 <-> 거실 (넓은 개구부)
     (20800, 6500, 1100),   # 거실 -> 복도
     (23100, 7210, 1000),   # 침실2
     (25480, 7210, 1000),   # 욕실2
